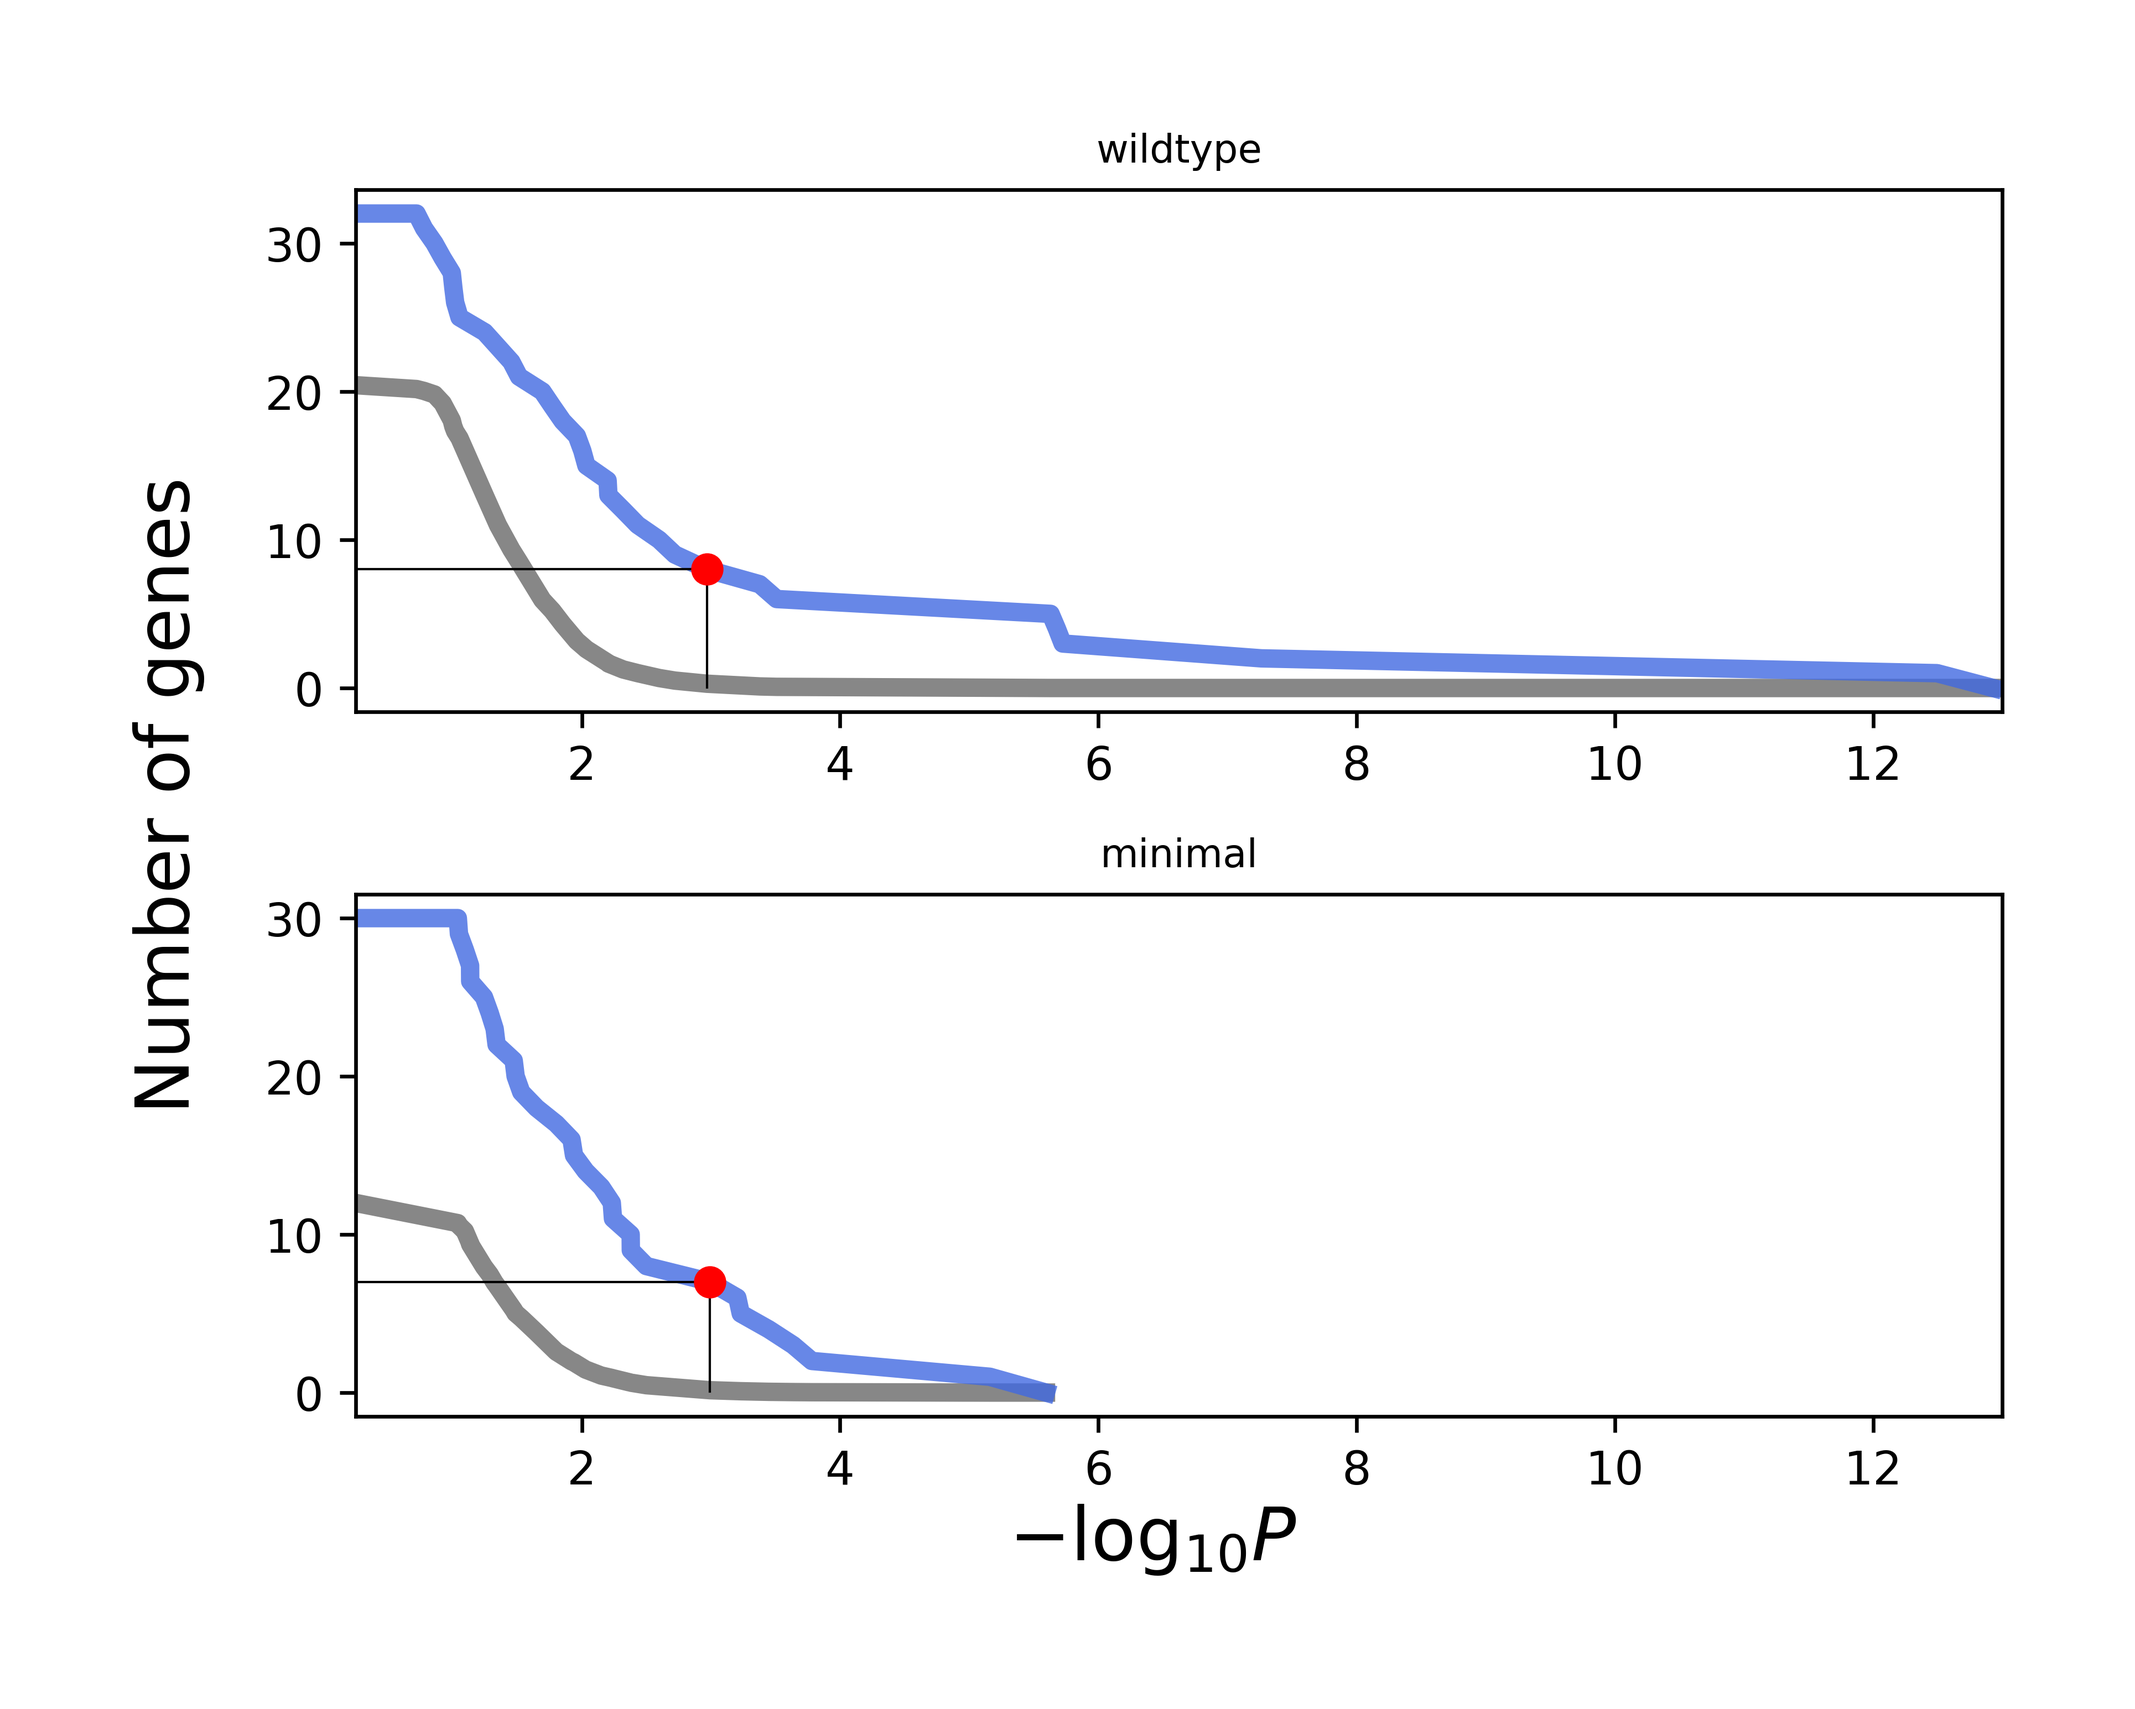
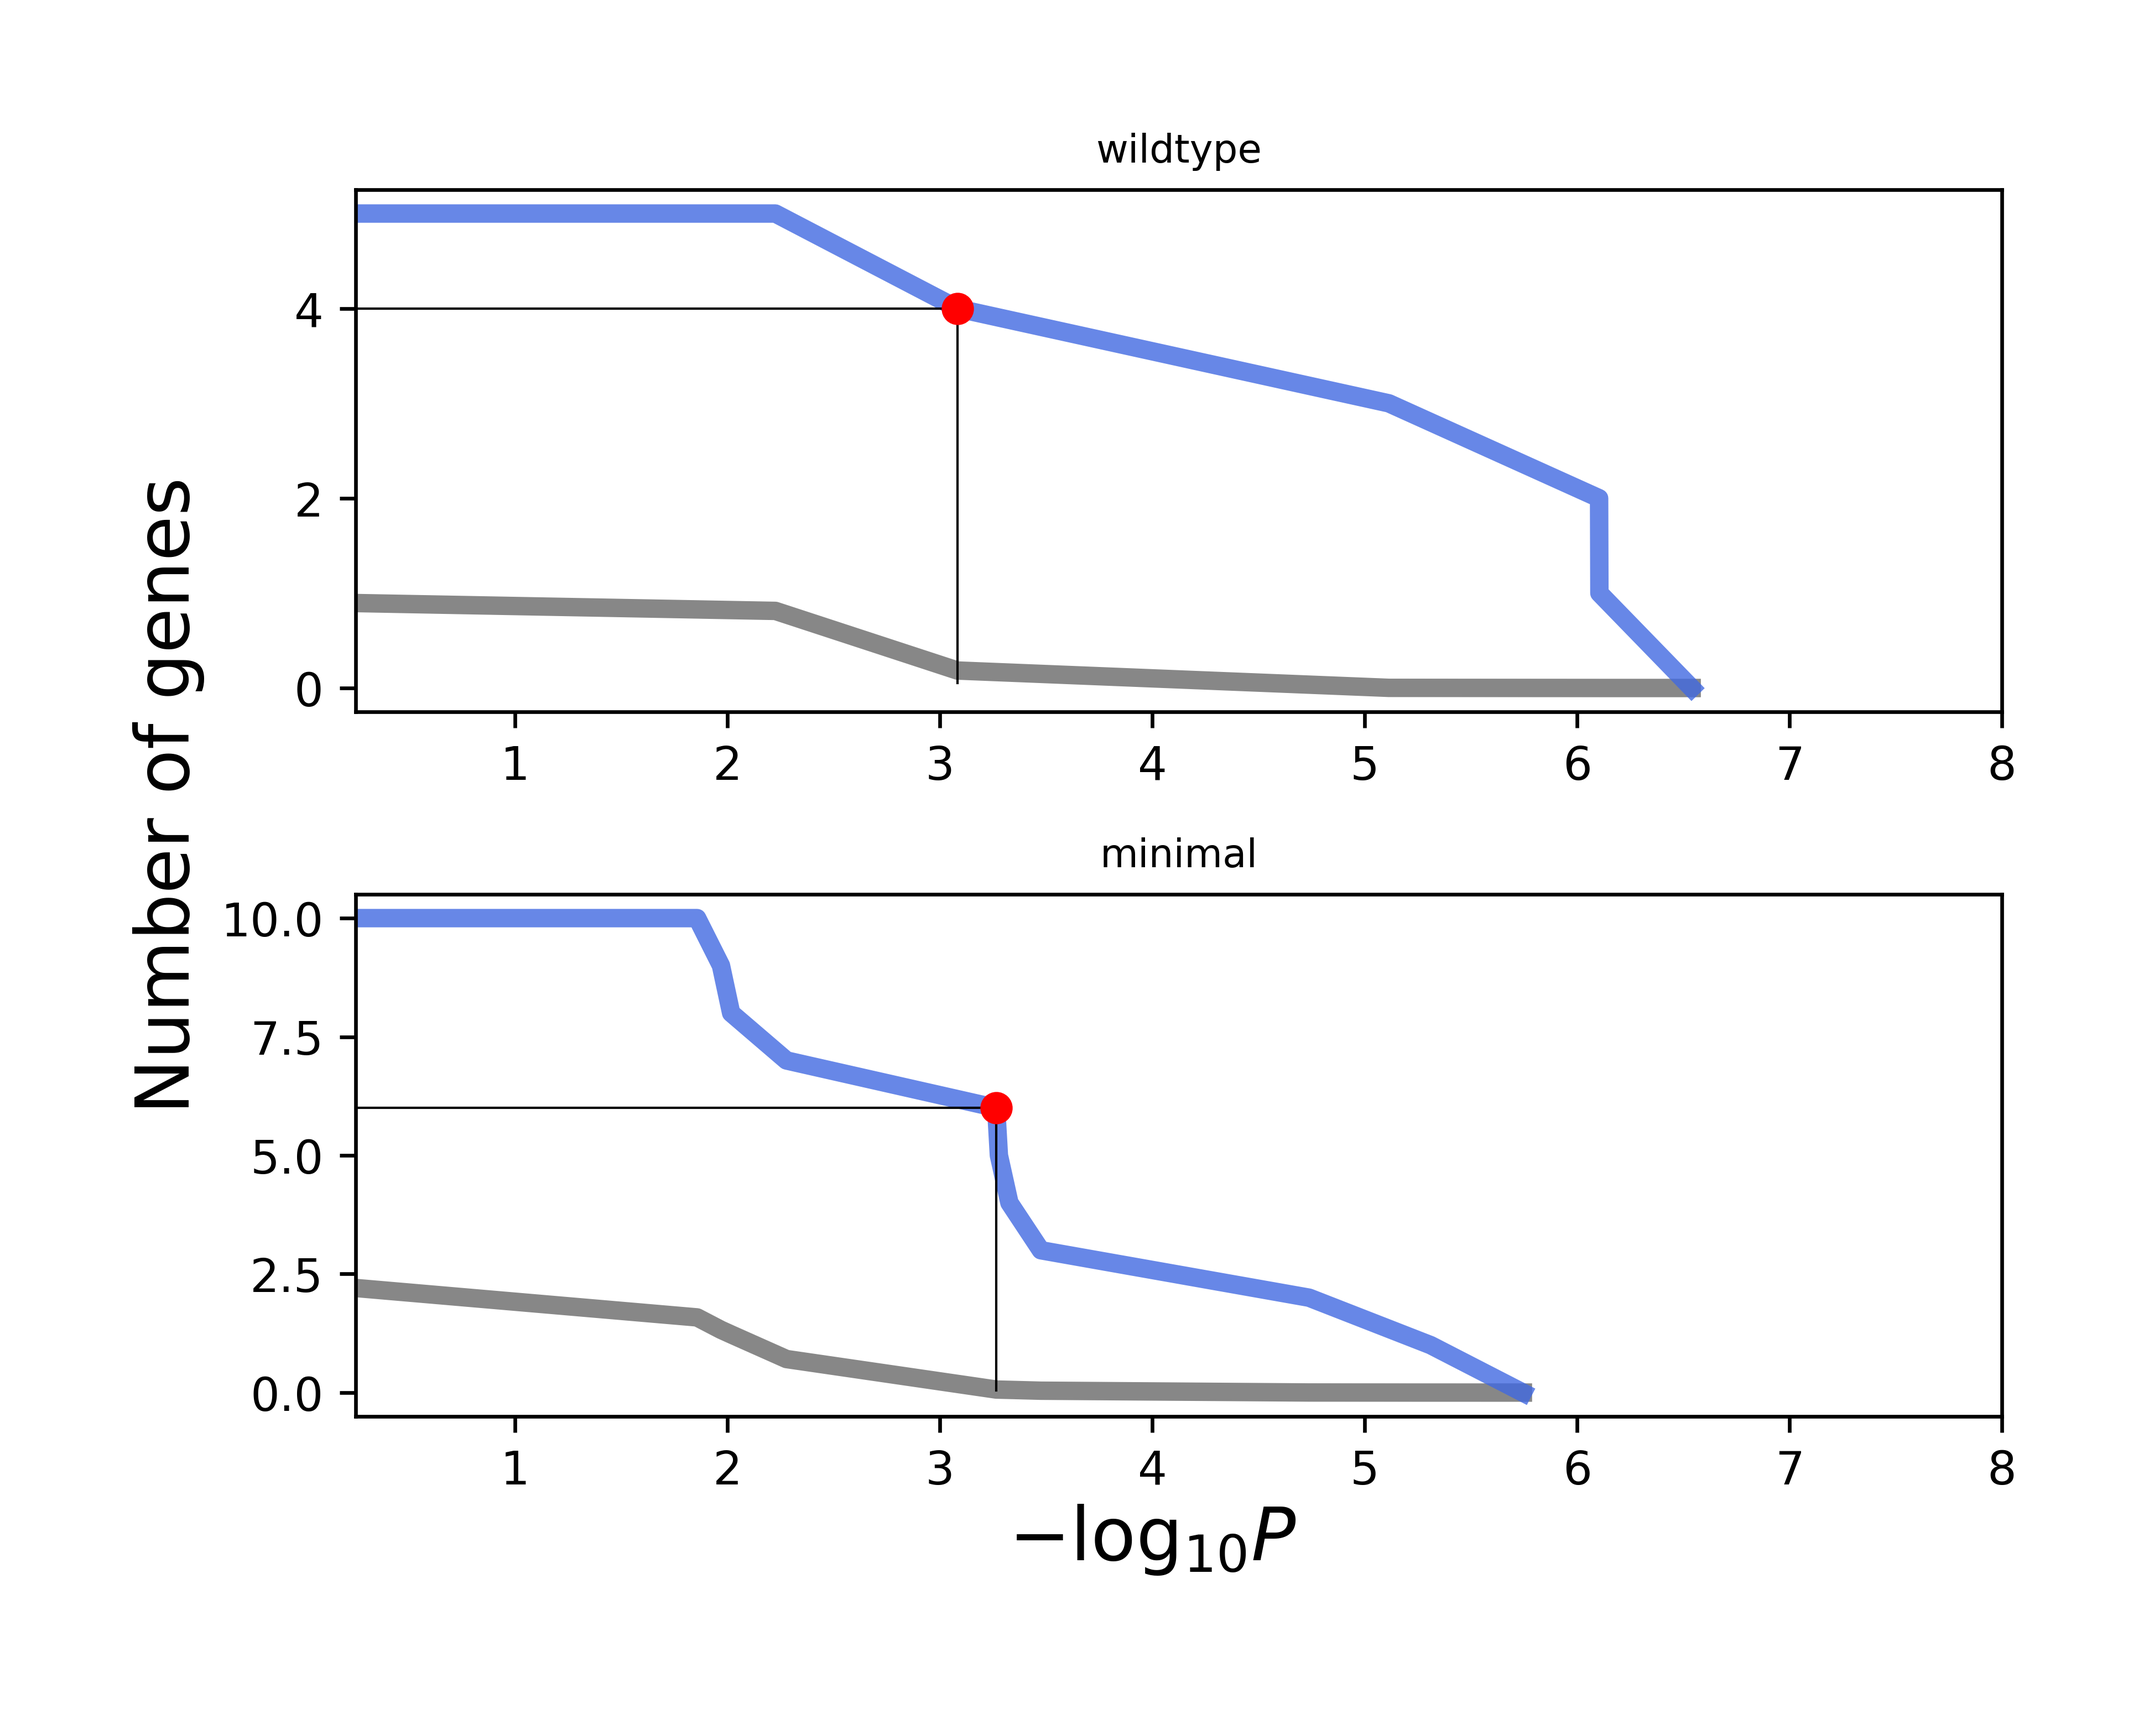
only fixed mutations

diff --git a/OUTPUTS/get_multiplicity.py b/OUTPUTS/get_multiplicity.py
@@ -9,7 +9,7 @@ import matplotlib.pyplot as plt
 from decimal import Decimal
 from matplotlib.ticker import FormatStrFormatter
 
-mydir = os.path.expanduser("~/Desktop/OUTPUTS")
+mydir = os.path.expanduser("~/GitHub/MinimalCell/OUTPUTS")
 output_to_keep = ['INS', 'DEL', 'SNP', 'SUB']
 strains = ['wildtype', 'minimal']
 
@@ -51,6 +51,9 @@ def get_multiplicity(nmin = 2, FDR = 0.05):
                 if line_split[0] not in output_to_keep:
                     continue
                 if line_split[3] + '_' + line_split[4] in sites_to_remove:
+                    continue
+                frequency = float([s for s in line_split if 'frequency=' in s][0].split('=')[1])
+                if frequency != 1:
                     continue
                 if line_split[0] == 'SNP':
                     if [s for s in line_split if 'snp_type=' in s][0].split('=')[1] == 'nonsynonymous':
@@ -207,7 +210,7 @@ def plot_multiplicity_survival():
         ax = fig.add_subplot(2, 1, i+1)
         ax.plot(new_x, new_obs_y, '-', c='royalblue', lw=4, alpha = 0.8, zorder=1)
         ax.plot(new_x, new_null_y, '-', c='dimgrey', lw=4, alpha = 0.8, zorder=0)
-        ax.set_xlim([0.9, 16])
+        ax.set_xlim([0.9, 9])
 
         taxon_par = df_par.loc[df_par['Strain'] == strain]
 
@@ -259,7 +262,7 @@ def plot_logpvalue_survival():
             ax.plot([-3,pstar_i],[num_significant_i, num_significant_i],'k-',linewidth=0.5, zorder=3)
             ax.plot([pstar_i], [num_significant_i], c='r', marker='o', zorder=4)
 
-        ax.set_xlim([0.25, 13])
+        ax.set_xlim([0.25, 8])
 
         ax.title.set_text(strain)
 
@@ -278,7 +281,6 @@ def plot_logpvalue_survival():
 # equal rate of evolution
 #print(ttest_ind([14,23,15,20], [19,14,13,9],equal_var=False))
 
-
-#get_multiplicity('wildtype')
+#get_multiplicity()
 #plot_multiplicity_survival()
 plot_logpvalue_survival()

diff --git a/OUTPUTS/mult_tools.py b/OUTPUTS/mult_tools.py
@@ -7,7 +7,7 @@ from scipy.special import gammaln
 
 
 def get_path():
-    return os.path.expanduser("~/Desktop/OUTPUTS")
+    return os.path.expanduser("~/GitHub/MinimalCell/OUTPUTS")
 
 
 # NullMultiplicitySurvivalFunction class is modified from GitHub repo
